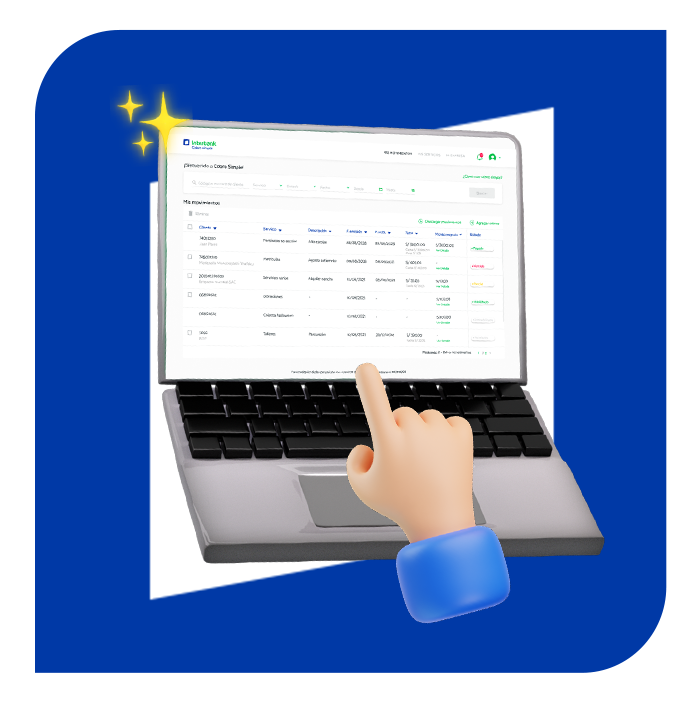
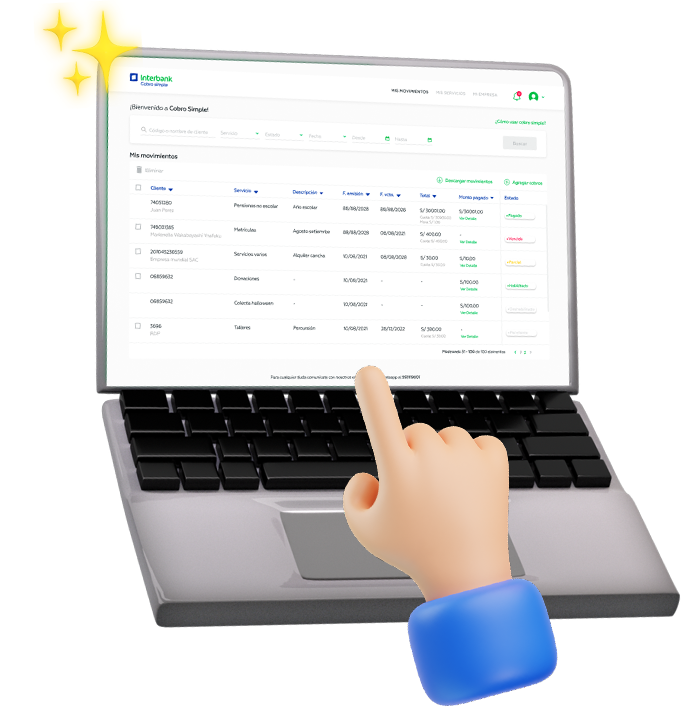
DDCS-2507 fix(assets): update imagen

diff --git a/EurekaAngularProy/src/app/features/auth/components/layout-form/layout-form.component.html b/EurekaAngularProy/src/app/features/auth/components/layout-form/layout-form.component.html
@@ -19,9 +19,9 @@
   >
     <div class="lg:tw-flex tw-items-center">
       <div
-        class="sm:tw-w-full sm:tw-max-w-[450px] lg:tw-max-w-none tw-pr-4 tw-pl-4 lg:tw-w-7/12"
+        class="sm:tw-w-full sm:tw-max-w-[450px] lg:tw-max-w-none tw-pr-4 tw-pl-4 lg:tw-w-7/12 tw-flex tw-flex-col tw-justify-items-center tw-gap-7"
       >
-        <div class="lg:tw-ml-20 lg:tw-mb-16 lg:tw-pr-8 tw-mb-6">
+        <div class="lg:tw-ml-20 lg:tw-mb-0 lg:tw-pr-8 tw-mb-6">
           <h2
             class="tw-text-2xl lg:tw-text-3xl tw-text-center md:tw-text-left xl:tw-text-4xl tw-font-medium tw-text-white"
           >
@@ -29,7 +29,9 @@
             Cobro Simple
           </h2>
         </div>
-        <div class="tw-w-96 tw-mx-auto tw-mb-10 lg:tw-w-auto tw-max-w-[420px]">
+        <div
+          class="tw-w-96 tw-mx-auto tw-mb-10 lg:-tw-mb-2 lg:tw-w-auto tw-max-w-[390px]"
+        >
           <img src="/assets/images/computer.png" alt="Computadora" />
         </div>
       </div>
